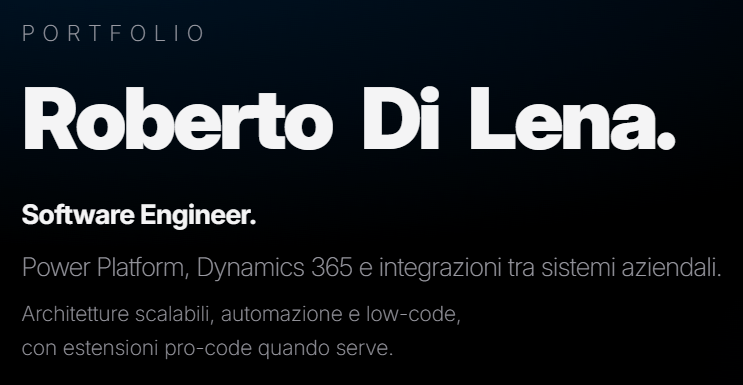
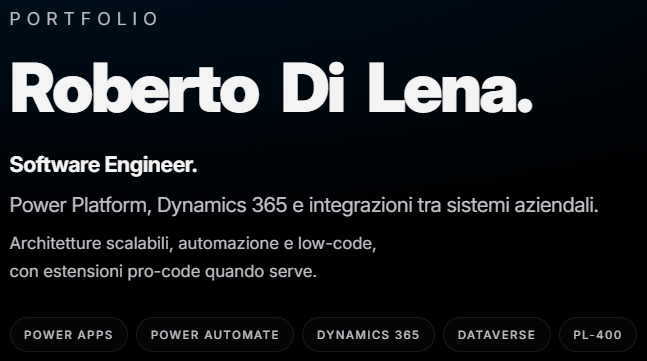
seo: update OG/Twitter preview image (hero + pills, 647×361)
Made-with: Cursor

diff --git a/index.html b/index.html
@@ -32,11 +32,11 @@
       property="og:image"
       content="https://robertodilena.github.io/images/og-share-hero.png"
     />
-    <meta property="og:image:width" content="743" />
-    <meta property="og:image:height" content="385" />
+    <meta property="og:image:width" content="647" />
+    <meta property="og:image:height" content="361" />
     <meta
       property="og:image:alt"
-      content="Roberto Di Lena — Portfolio, Software Engineer (anteprima hero testuale)"
+      content="Roberto Di Lena — Portfolio, Software Engineer, stack Power Platform e pillole tecnologiche"
     />
     <meta property="article:author" content="Roberto Di Lena" />
     <meta property="article:published_time" content="2025-08-15T12:00:00+02:00" />
